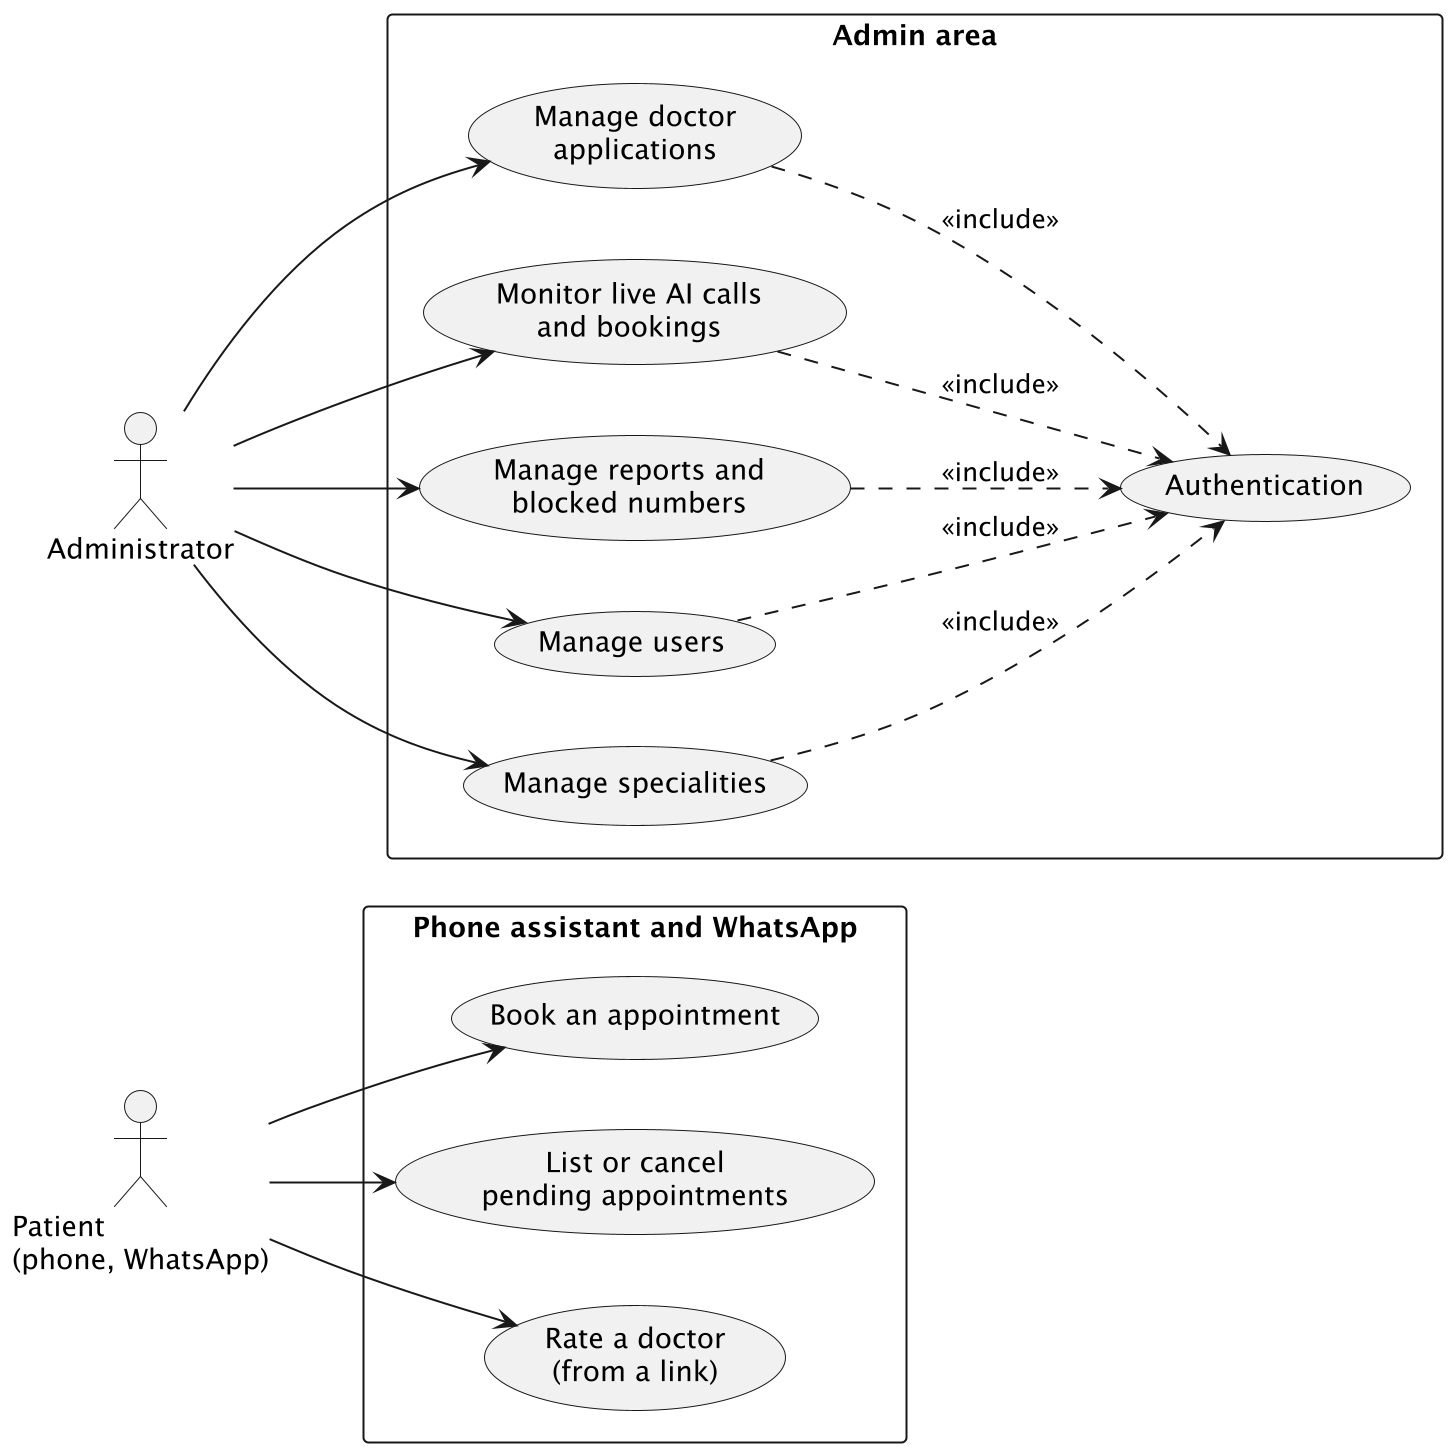
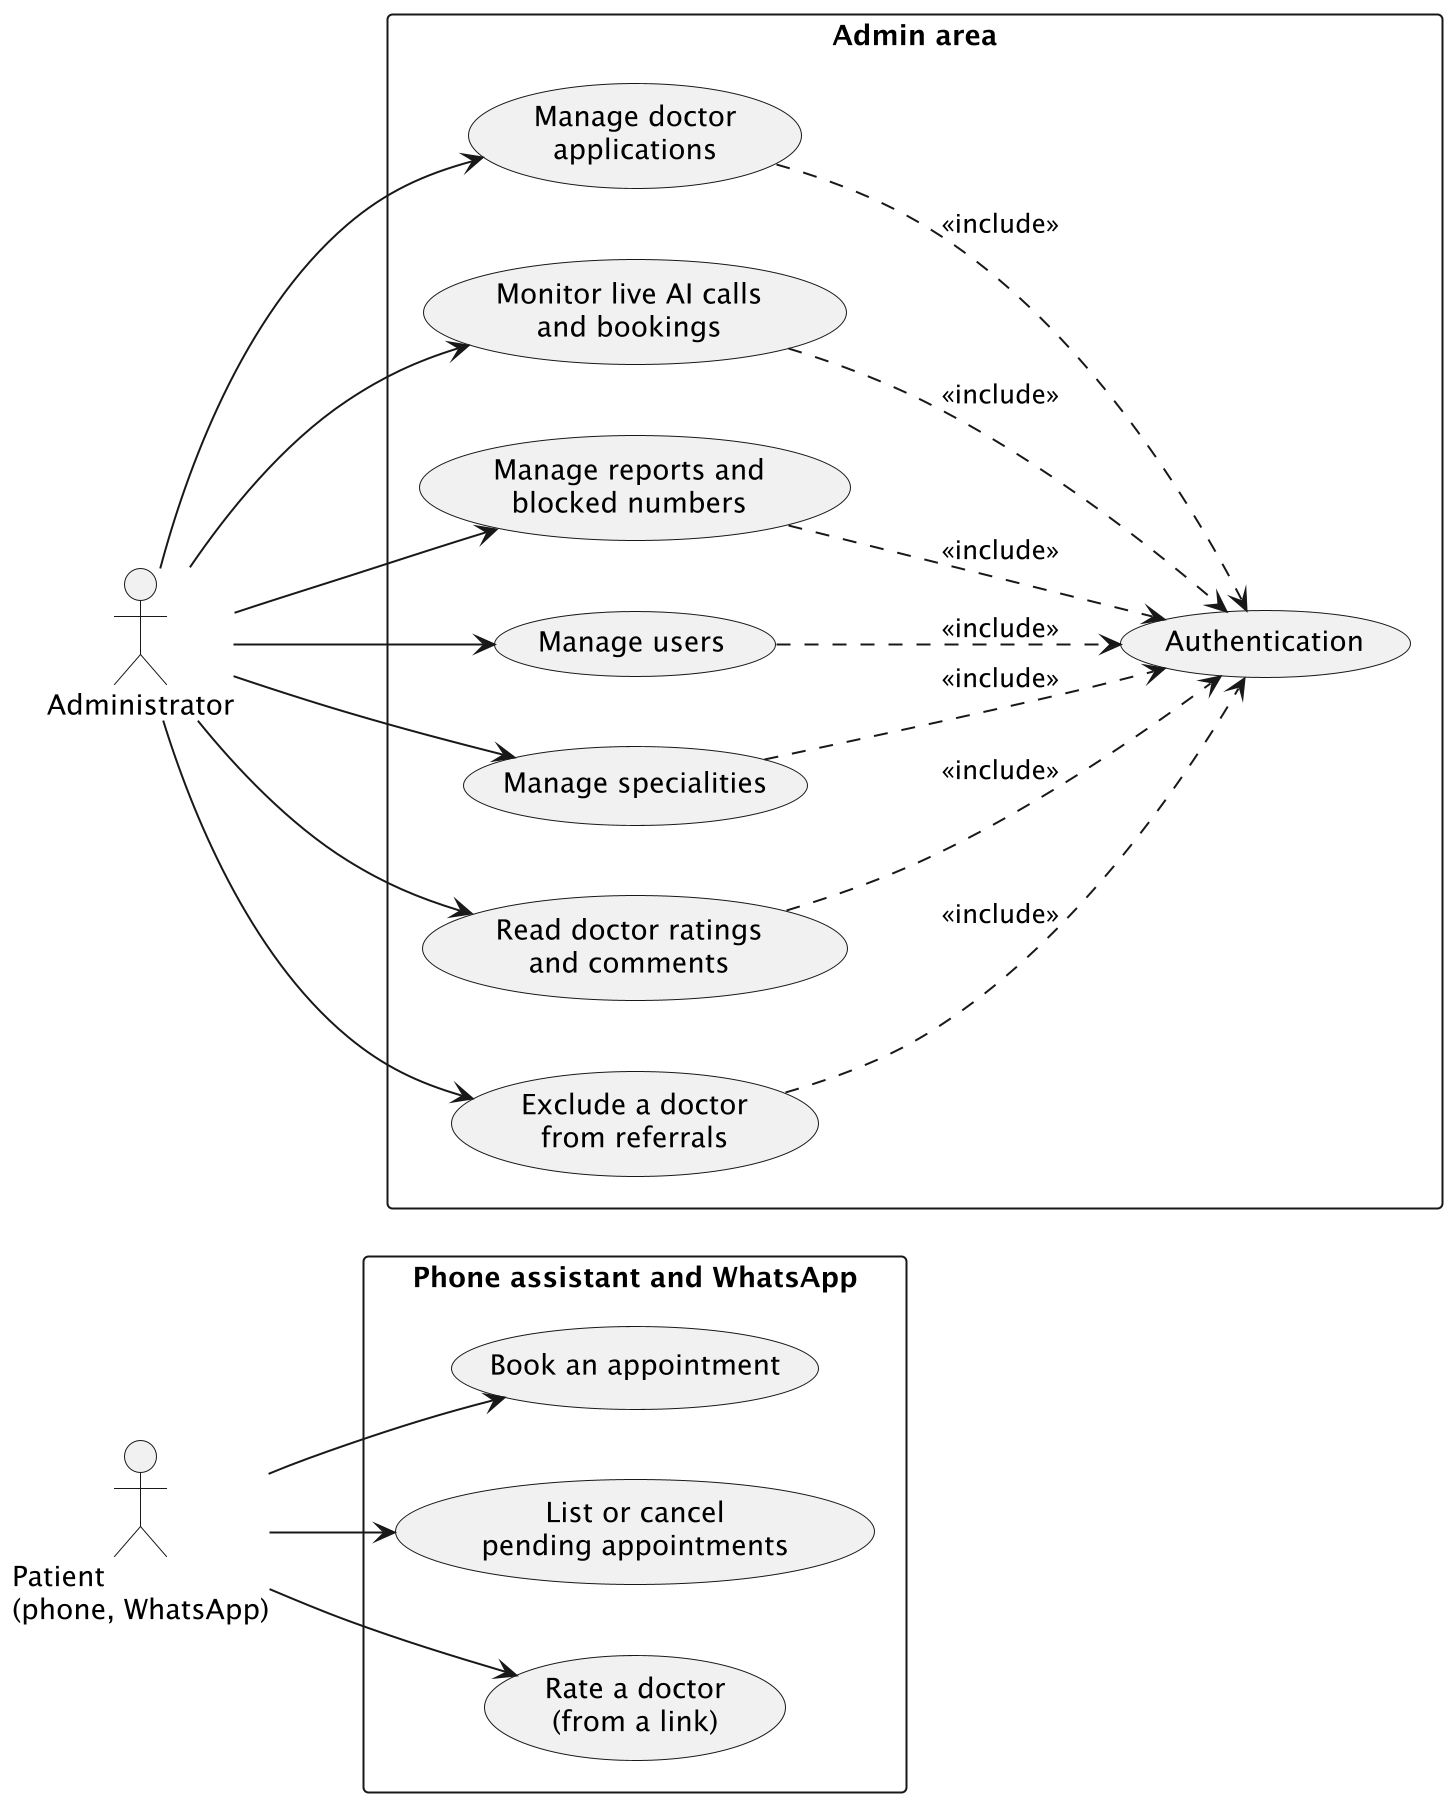
Describe patient reviews and referral exclusion in the report
Adds the admin ratings screens, the review lifecycle and the manual
exclusion from referrals in chapter 3, the excluded doctors left out of
the best-fit search, and updates the actors, use case, class and
sequence diagrams to match.

diff --git a/chap_02.tex b/chap_02.tex
@@ -170,7 +170,7 @@ Riaya has five actors: the patient, the visitor, the doctor, the secretary and t
 
 The patient has no account and only talks to the AI on the phone. The patient can book an appointment, including an urgent one or one for a family member, list or cancel pending appointments, and rate a doctor after a visit.
 
-The administrator can manage doctor applications, monitor live calls, handle abuse reports and blocked numbers, and manage users and specialities. Only the administrator can block a number; the AI can only report a call.
+The administrator can manage doctor applications, monitor live calls, handle abuse reports and blocked numbers, and manage users and specialities. Only the administrator can block a number; the AI can only report a call. The administrator also reads the ratings that patients give after their visits and can exclude a doctor from referrals, so that the phone assistant stops offering that doctor to new callers.
 
 \begin{figure}[H]
     \centering
@@ -197,9 +197,9 @@ The database runs on PostgreSQL \cite{postgresql2024}. It has more than thirty t
     \label{fig:erd}
 \end{figure}
 
-An \texttt{appointment} names the person who will see the doctor and the phone that made the booking, which is where the WhatsApp messages go. When a mother books for her son, the appointment is for the son and the messages go to the mother's phone. The link to the doctor's patient file is set only when the doctor accepts the request. A phone booking also keeps the place the patient searched from, so that the next call from the same phone can offer that area again. An invoice is made of its items and its payments, and its status is computed from the payments, so the two cannot disagree.
+An \texttt{appointment} names the person who will see the doctor and the phone that made the booking, which is where the WhatsApp messages go. When a mother books for her son, the appointment is for the son and the messages go to the mother's phone. The link to the doctor's patient file is set only when the doctor accepts the request. A phone booking also keeps the place the patient searched from, so that the next call from the same phone can offer that area again. An appointment has at most one \texttt{review}, so each visit is rated once. The review keeps the token of the link sent to the patient and the date after which the link stops working. An invoice is made of its items and its payments, and its status is computed from the payments, so the two cannot disagree.
 
-\paragraph{Accounts and practice.} \xref{fig:erd_practice} groups the accounts and what a doctor runs. A doctor's \texttt{doctor\_application} is kept apart from the \texttt{doctor\_profile}: a user can apply several times, and the profile is created only once an administrator approves an application. The profile holds the cabinet position used by the doctor search and the weekly availability.
+\paragraph{Accounts and practice.} \xref{fig:erd_practice} groups the accounts and what a doctor runs. A doctor's \texttt{doctor\_application} is kept apart from the \texttt{doctor\_profile}: a user can apply several times, and the profile is created only once an administrator approves an application. The profile holds the cabinet position used by the doctor search and the weekly availability. It also records whether an administrator has excluded the doctor from referrals, with the date, the administrator and the reason. The exclusion is kept apart from the \texttt{status} column, because a banned doctor loses the whole platform while an excluded doctor keeps their account and only stops receiving new patients from the search.
 
 \begin{figure}[H]
     \centering
@@ -233,7 +233,7 @@ The two sequence diagrams use the boundary, control and entity notation. Boundar
 
 When the patient dials, Twilio calls the voice server's webhook \cite{twilio2024}, which first asks the web application whether the number is blocked. A blocked number is rejected with a busy signal and no AI starts. This check fails open: if the web application does not answer in about 1.5 seconds, the call goes on. For an allowed number, the webhook creates the call record and tells Twilio to open a media stream and start recording.
 
-When the stream opens, the call session asks the web application for what it already knows about the caller: the name and preferred language, the people known on this phone, the place of the last phone booking from this line, and any request a doctor refused in the last 24 hours. It then opens a Gemini Live session with the assistant's instructions and tools. The instructions include the current date and time in Tunisia, so the AI understands ``tomorrow'' or ``Monday morning'', and this caller context, so it can greet a known caller by name, ask who the appointment is for, and ask whether the patient is in the same area as last time. Past bookings are not loaded up front; the AI asks for them with a tool only when the patient brings them up. The session then relays the audio in both directions for each turn of the conversation. Within a turn, Gemini Live can call a tool before it answers. When the patient names a place, it calls \texttt{searchLocation}, and the web application finds the coordinates with Google Places. Once the speciality, the place and the time are known, it calls \texttt{findAvailableSlots}, and the web application returns doctors and free slots. When the patient chooses a doctor, \texttt{bookAppointment} creates the appointment with the status \texttt{pending}, adds the 10-minute timeout job to the queue, and the session sends the new request to the doctor's calendar. The API accepts these calls only with the shared secret of the voice server. At the end, Gemini Live calls \texttt{endCall}, the session hangs up, and Twilio notifies the web application once the recording is ready, so that it can be stored in Cloudflare R2 \cite{cloudflare2024r2}.
+When the stream opens, the call session asks the web application for what it already knows about the caller: the name and preferred language, the people known on this phone, the place of the last phone booking from this line, and any request a doctor refused in the last 24 hours. It then opens a Gemini Live session with the assistant's instructions and tools. The instructions include the current date and time in Tunisia, so the AI understands ``tomorrow'' or ``Monday morning'', and this caller context, so it can greet a known caller by name, ask who the appointment is for, and ask whether the patient is in the same area as last time. Past bookings are not loaded up front; the AI asks for them with a tool only when the patient brings them up. The session then relays the audio in both directions for each turn of the conversation. Within a turn, Gemini Live can call a tool before it answers. When the patient names a place, it calls \texttt{searchLocation}, and the web application finds the coordinates with Google Places. Once the speciality, the place and the time are known, it calls \texttt{findAvailableSlots}, and the web application returns doctors and free slots. Only verified doctors that no administrator has excluded from referrals are searched. When the patient chooses a doctor, \texttt{bookAppointment} creates the appointment with the status \texttt{pending}, adds the 10-minute timeout job to the queue, and the session sends the new request to the doctor's calendar. The API accepts these calls only with the shared secret of the voice server. At the end, Gemini Live calls \texttt{endCall}, the session hangs up, and Twilio notifies the web application once the recording is ready, so that it can be stored in Cloudflare R2 \cite{cloudflare2024r2}.
 
 \begin{figure}[H]
     \centering

diff --git a/chap_03b.tex b/chap_03b.tex
@@ -92,7 +92,7 @@ While the patient waits on the line, the platform has to turn ``a dermatologist 
 
 \begin{enumerate}
     \item \textbf{Locate the patient.} If this phone line has booked before, the AI first asks whether the patient is in the same area as last time and, if so, reuses that place. Otherwise the place the patient names is looked up with Google Places, restricted to Tunisia. If no precise place is found, the AI falls back to a stored list of 24 Tunisian cities with GPS coordinates. Doctors store the exact coordinates of their cabinet, picked on a map at registration, so the search compares coordinates and not city names.
-    \item \textbf{Candidates.} Only verified doctors with the chosen speciality and a mapped cabinet are kept. Doctors farther than 50~km in a straight line, computed with the Haversine formula \cite{haversine1971}, are left out, so a patient in Tunis is not offered a doctor in Sfax. If nobody within 50~km has a free slot, the 3 nearest doctors beyond that limit are returned with a ``far away'' flag, and the AI tells the patient so. Before this fallback, such a search returned nothing.
+    \item \textbf{Candidates.} Only verified doctors with the chosen speciality and a mapped cabinet are kept, and doctors that an administrator has excluded from referrals are left out (Section~\ref{subsec:reviews}). Doctors farther than 50~km in a straight line, computed with the Haversine formula \cite{haversine1971}, are left out, so a patient in Tunis is not offered a doctor in Sfax. If nobody within 50~km has a free slot, the 3 nearest doctors beyond that limit are returned with a ``far away'' flag, and the AI tells the patient so. Before this fallback, such a search returned nothing.
     \item \textbf{Nearest free slot.} For each doctor, the search finds the free 30-minute slot closest to the preferred time within the next week, before or after it, skipping existing appointments and hours outside the doctor's weekly availability. Up to 3 later slots are kept, so the AI can offer other times without a new search.
     \item \textbf{Score and sort.} Each doctor gets the score below. Lower is better, and 10 minutes of waiting count as much as one kilometre. The time difference is measured against what the patient asked for, not against the current time.
     \item \textbf{Road-distance polish.} The 8 best doctors by straight line are sorted again by driving distance, with one call to the Geoapify Route Matrix \cite{geoapifymatrix2026} and a 3-second timeout. If the service is slow or fails, the straight-line order stays.
@@ -119,6 +119,18 @@ A patient in an urgent case should not wait 10 minutes for one doctor and then s
 \label{subsec:rejection-handling}
 
 We had to decide what happens when a doctor refuses a request or does not answer. Our first idea was to ask the patient for a backup doctor during the call. The call already asks many questions, though, and we wanted to keep it short. So the patient picks one doctor, and if that doctor says no or stays silent, Riaya calls the patient back with new options. After a refusal, Riaya keeps what the patient asked for in Redis for 24 hours, and the AI speaks first in the callback and offers up to 3 other doctors with free slots. If the patient calls Riaya before that, the AI offers these doctors first. After a timeout, the callback only asks the patient to call again. A callback that does not reach the patient is replaced by the same message on WhatsApp from the platform account, and blocked numbers get neither. \xref{fig:activity_refusal} in Chapter~2 shows the three outcomes of a normal request, and \xref{fig:sequence_callback} shows how the queue, the web app, the voice server and Twilio work together for these callbacks.
+
+\subsection{Patient Reviews and Referral Quality}\label{subsec:reviews}
+
+Two hours after a confirmed visit, a delayed BullMQ job sends the patient a WhatsApp link to the review page (\xref{fig:scr_review}). The job is tied to the appointment. When a doctor moves a confirmed appointment on the calendar, the job is replaced, so the link still arrives two hours after the new end time. When the job runs, it checks again that the appointment is confirmed and that the visit is over.
+
+Each visit can be rated once. A patient who comes often should not get a message after every visit, so no new request goes to a patient who already received one for the same doctor in the last 30 days, whether they answered it or not. A link stops working 30 days after it was sent.
+
+We first built a rating page for doctors and then removed it. Few patients write a comment, a doctor with 30 visits a month collects only a handful of ratings, and a doctor who sees a low score may blame the assistant that booked the patient. The ratings are used by Riaya instead, to decide which doctors the phone assistant keeps offering to callers. Doctors see no rating anywhere.
+
+The Ratings page (\xref{fig:scr_ratings}) shows for each doctor the average rating, the average over the last 90 days, the number of reviews and the share of long waits. Each patient counts once in the average: the ratings of one patient are averaged first, so a patient who comes every week does not set the score alone. Below 5 reviews the values are shown in grey and the doctor is sorted after the doctors with enough reviews. A doctor with an average under 3 over at least 5 reviews is highlighted in red.
+
+The decision stays with the administrator, who opens the doctor's reviews and can stop referrals with a written reason (\xref{fig:scr_rating_detail}). The doctor then disappears from the best-fit search, from urgent requests and from the Best Fit Finder, but keeps the account, the existing appointments and the patients who ask for them by name. We did not lower a doctor's rank automatically from the ratings, because each doctor has too few reviews for such a score to be trusted, and some ratings may judge the booking more than the visit. The excluded doctor sees a banner with the administrator's reason and the support address (\xref{fig:scr_referral_banner}), and no score.
 
 \section{Evaluations and Tests}\label{sec:evaluations}
 

diff --git a/chap_03.tex b/chap_03.tex
@@ -255,7 +255,7 @@ After sign-up, the doctor fills in the application on the Profile page: name, id
     \caption{Patient review page}
     \label{fig:scr_review}
 \end{figure}
-Two hours after a visit, the patient receives a WhatsApp link to this page. It asks for a star rating, the waiting time and an optional comment, and it needs no account.
+Two hours after a visit, the patient receives a WhatsApp link to this page. It asks for a star rating, the waiting time and an optional comment, and it needs no account. Each visit can be rated once, and the link stops working after 30 days.
 
 \subsection{Doctor Dashboard}
 
@@ -453,6 +453,41 @@ The Calls page lists the active call at the top and the past calls below. The pa
     \label{fig:scr_abuse}
 \end{figure}
 A report opened by the AI shows why it reported the call, the recording when there is one, and the transcript with the \texttt{report\_abuse} tool call; the administrator dismisses it or blocks the number. Blocked numbers are rejected before the AI answers, and the list shows until when each number is blocked and how many of its calls were refused.
+
+\begin{figure}[H]
+    \centering
+    \includegraphics[width=0.95\textwidth]{images/screens/27_admin_ratings.png}
+    \caption{Doctor ratings}
+    \label{fig:scr_ratings}
+\end{figure}
+The Ratings page lists the doctors that patients have rated. The two doctors in red have an average under 3 over at least 5 reviews. Values based on fewer than 5 reviews are shown in grey, and these doctors come last when the list is sorted by average.
+
+\begin{figure}[H]
+    \centering
+    \begin{subfigure}[t]{0.48\textwidth}
+        \centering
+        \includegraphics[width=\linewidth]{images/screens/28_rating_sheet.png}
+        \caption{Reviews of one doctor}
+        \label{fig:scr_rating_sheet}
+    \end{subfigure}\hfill
+    \begin{subfigure}[t]{0.48\textwidth}
+        \centering
+        \includegraphics[width=\linewidth]{images/screens/28b_exclude_dialog.png}
+        \caption{Stopping referrals}
+        \label{fig:scr_exclude_dialog}
+    \end{subfigure}
+    \caption{Reviews of a doctor and exclusion from referrals}
+    \label{fig:scr_rating_detail}
+\end{figure}
+Opening a doctor shows each review with its waiting time, the visit and the comment, written in French, in Derja or in English. From there the administrator can stop referrals to the doctor. The reason is required, and the dialog warns that the doctor will read it as written.
+
+\begin{figure}[H]
+    \centering
+    \includegraphics[width=0.95\textwidth]{images/screens/29_referral_banner.png}
+    \caption{Doctor dashboard while excluded from referrals}
+    \label{fig:scr_referral_banner}
+\end{figure}
+While a doctor is excluded, every dashboard page starts with this banner. It gives the administrator's reason and the support address, and shows no rating.
 
 \begin{figure}[H]
     \centering

diff --git a/chap_01.tex b/chap_01.tex
@@ -37,7 +37,7 @@ The platform has five actors: the patient, the visitor, the doctor, the secretar
     \item \textbf{Visitor:} someone who has not signed up yet, usually a doctor discovering the platform. The visitor can only sign up, with an email code, and then becomes a doctor who applies for verification.
     \item \textbf{Doctor:} signs up on the website, submits professional documents and waits for an administrator's approval. Once verified, the doctor sets weekly availability, accepts or refuses phone bookings, manages patients, medical files and invoices, records consultations, uses the AI assistant, links their own WhatsApp number and manages the subscription.
     \item \textbf{Secretary:} is invited by email by a doctor on the Pro plan. A secretary handles appointments, patients, invoices and availability for that doctor, without access to medical files, recordings, the AI assistant or billing.
-    \item \textbf{Administrator:} runs the platform from a back-office. The administrator verifies doctors, monitors live calls, reviews calls reported as abusive, blocks numbers, runs best-fit searches, manages specialities and users, links the platform WhatsApp account and reads platform statistics.
+    \item \textbf{Administrator:} runs the platform from a back-office. The administrator verifies doctors, monitors live calls, reviews calls reported as abusive, blocks numbers, runs best-fit searches, reads the patients' ratings of each doctor and can stop sending new patients to a doctor, manages specialities and users, links the platform WhatsApp account and reads platform statistics.
 \end{itemize}
 
 \subsection{Business Model (Freemium: Free vs Pro)}
